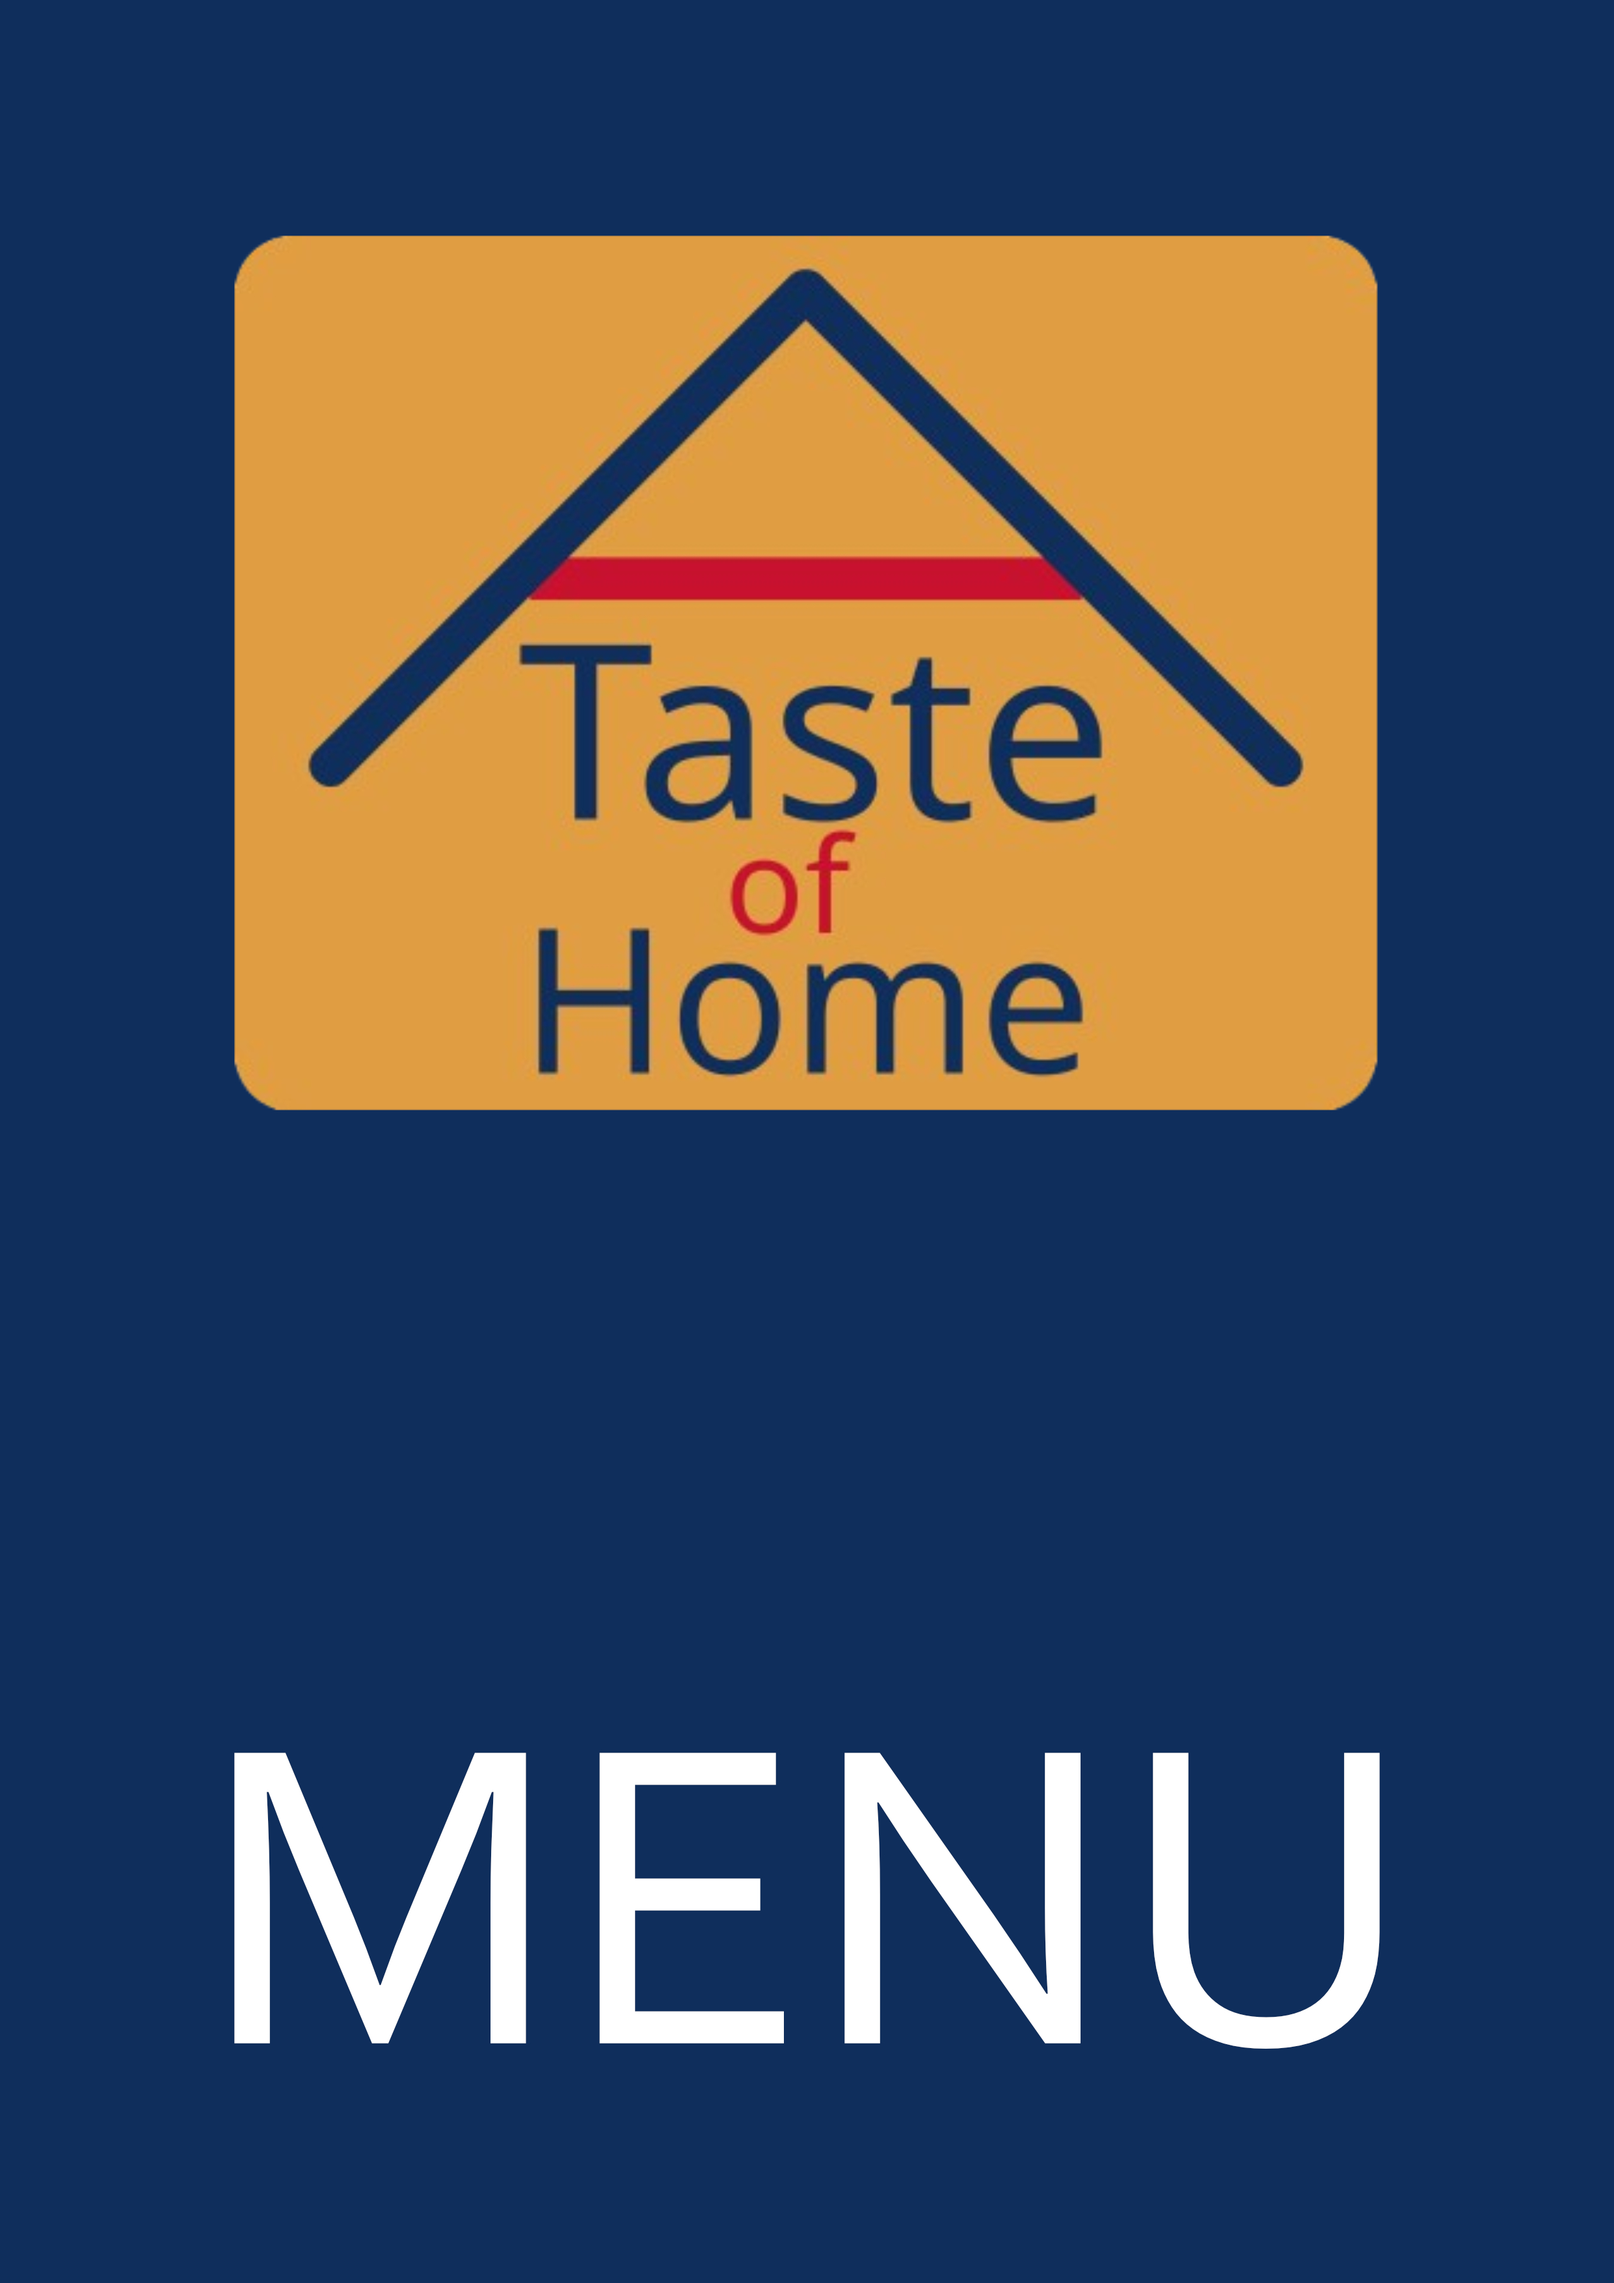
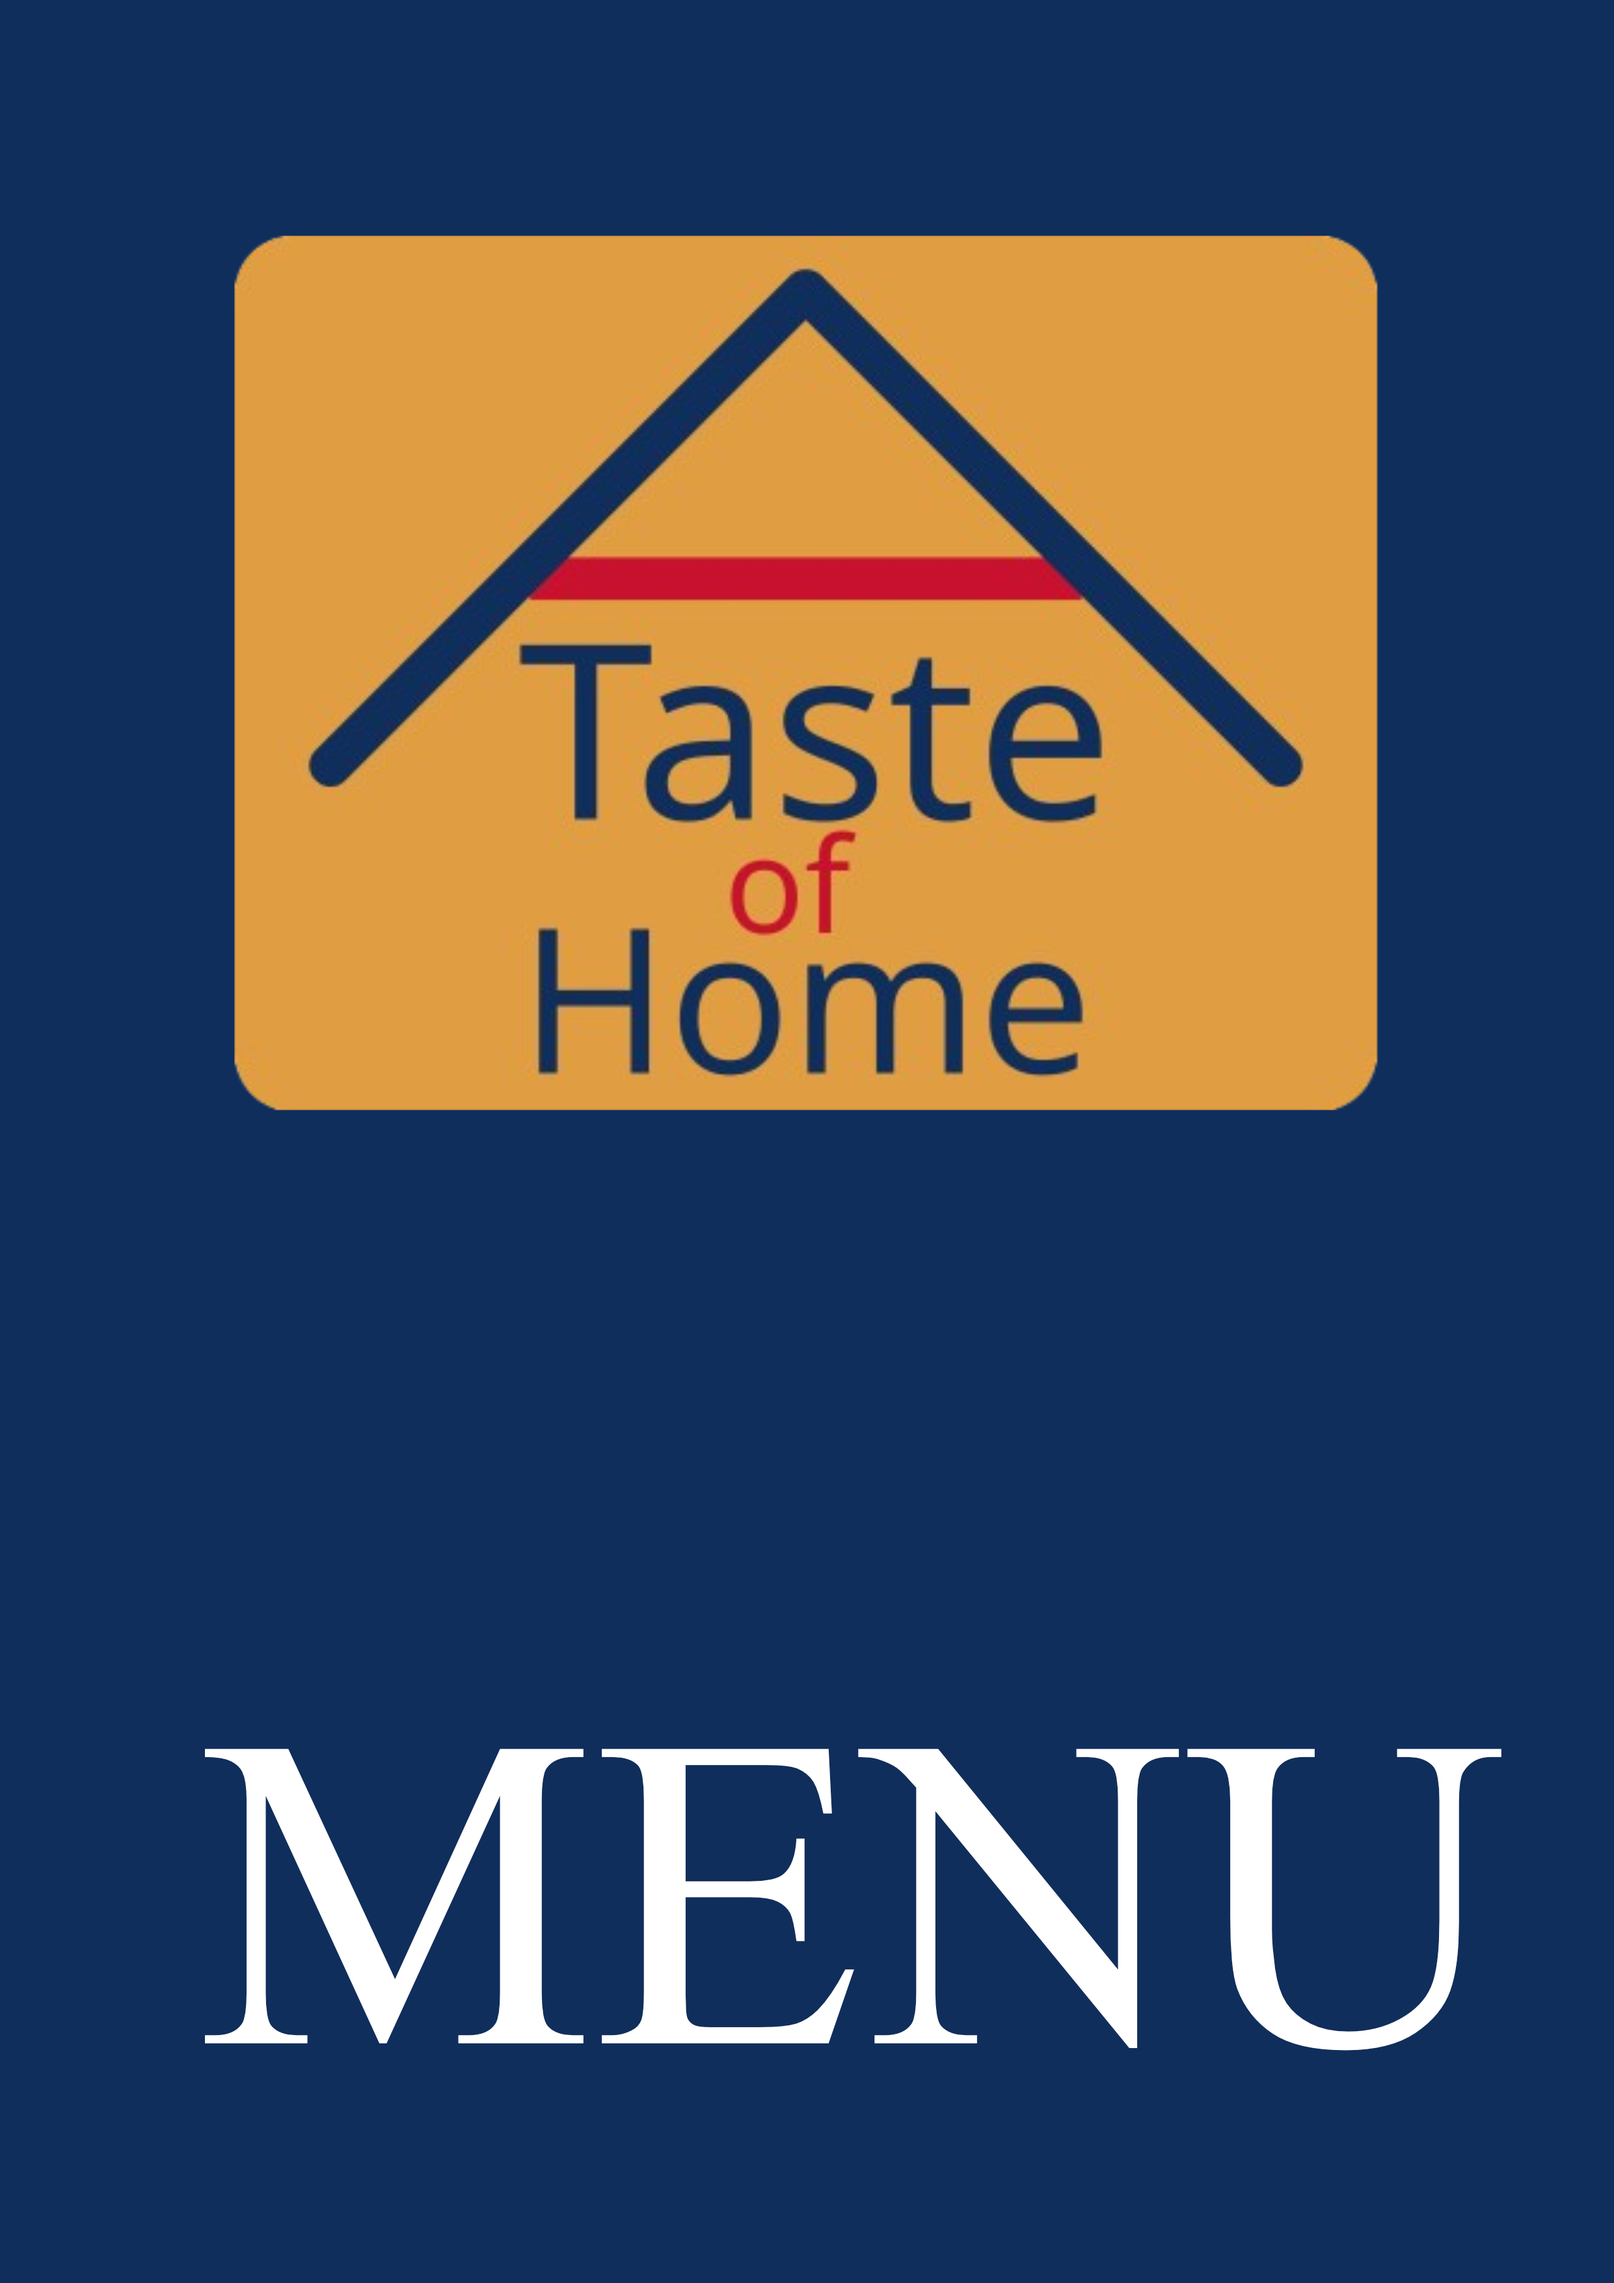
færdig

Changed region(s): [[0.2173, 0.7457, 0.9311, 0.9011], [0.1241, 0.7457, 0.1862, 0.9011], [0.1862, 0.7768, 0.2173, 0.8389]]

diff --git a/a-taste-of-home/a-taste-of-home.html b/a-taste-of-home/a-taste-of-home.html
@@ -7,7 +7,8 @@
     <link rel="stylesheet" type="text/css" href="mystylesheet.css">
 </head>
 
-<body style="background:url('picture-of-pub-with-food.png') no-repeat center center fixed;background-size:cover; background-size: cover;">
+<body
+    style="background:url('picture-of-pub-with-food.png') no-repeat center center fixed;background-size:cover; background-size: cover;">
     <header>
         <nav>
             <ul class="nav">
@@ -24,34 +25,53 @@
 
     <main>
         <div style="color: white; text-align: center; margin-top: 120px;">
-            <h1>A taste of home</h1>
-            <h3>Your home away</h3>
+            <h1>Velkommen til "A Taste of Home"</h1>
+            <h3>Your home away - Åbent tirsdag - søndag fra 08:00 - 22:00</h3>
         </div>
-        </main>
+    </main>
+    <main>
+        <div
+            style="color: white; text-align: center; margin-top: 50px; margin-bottom:50px; margin-left: 20%; margin-right: 20%; background-color: #0f2e5c; border-radius: 8px; padding: 2%;">
+            <p>Hos "A Taste of Home" er vi dedikerede til at skabe en varm og indbydende atmosfære, hvor du kan nyde
+                lækker mad inspireret af amerikanske, britiske og canadiske retter. Vores passion for mad og fællesskab
+                driver os til at levere en oplevelse, der føles som hjemme, uanset hvor du kommer fra.
+            </p>
+            <p style="margin-top: 40px;">
+                <a class="btn-cta" href="kontakt.html">Book bord</a>
+                <a class="btn-cta" href="menu.html">Se menukortet</a>
+            </p>
+        </div>
+    </main>
+    <main>
+        <div style="color: white; text-align: center; margin-bottom: 50px;">
+            <h1>Vi ses snart</h1>
+            <h3>A Taste of Home - Your home away</h3>
+        </div>
+    </main>
 
-        <footer>
-            <div class="footer-content">
-                <div style="text-align: center;" class="footer-col">
-                    <h4>Åbningstider</h4>
-                    <p>Mandag: Lukket</p>
-                    <p>Tirsdag - Søndag: 08:00 - 22:00</p>
-                </div>
-                <div class="footer-col">
-                    <h4>Links</h4>
-                    <p><a href="menu.html">Menu</a></p>
-                    <p><a href="om-os.html">Om os</a></p>
-                    <p><a href="kontakt.html">Kontakt</a></p>
-                </div>
-                <div style="text-align: center;" class="footer-col">
-                    <h4>Kontakt</h4>
-                    <p>Email: info@atasteofhome.com</p>
-                    <p>Telefon: 12 34 56 78</p>
-                </div>
-                <div class="footer-bottom">
-                    <p class="copyright">© 2025 A Taste of Home - All rights not reserved</p>
-                </div>
+    <footer>
+        <div class="footer-content">
+            <div style="text-align: center;" class="footer-col">
+                <h4>Åbningstider</h4>
+                <p>Mandag: Lukket</p>
+                <p>Tirsdag - Søndag: 08:00 - 22:00</p>
             </div>
-        </footer>
+            <div class="footer-col">
+                <h4>Links</h4>
+                <p><a href="menu.html">Menu</a></p>
+                <p><a href="om-os.html">Om os</a></p>
+                <p><a href="kontakt.html">Kontakt</a></p>
+            </div>
+            <div style="text-align: center;" class="footer-col">
+                <h4>Kontakt</h4>
+                <p>Email: info@atasteofhome.com</p>
+                <p>Telefon: 12 34 56 78</p>
+            </div>
+            <div class="footer-bottom">
+                <p class="copyright">© 2025 A Taste of Home - All rights not reserved</p>
+            </div>
+        </div>
+    </footer>
 
 </body>
 

diff --git a/a-taste-of-home/om-os.html b/a-taste-of-home/om-os.html
@@ -7,7 +7,8 @@
     <link rel="stylesheet" type="text/css" href="mystylesheet.css">
 </head>
 
-<body style="background-color:rgb(220, 220, 220);">
+<body
+    style="background:url('picture-of-pub-with-food.png') no-repeat center center fixed;background-size:cover; background-size: cover; color: white;">
     <header>
         <nav>
             <ul class="nav">
@@ -23,20 +24,21 @@
     </header>
 
     <main>
-        <div style="color: black; text-align: center; margin-top: 50px;">
-            <p>Historien bag (Storytelling): Fortæl hvorfor restauranten eksisterer, jeres passion for mad, og hvem der
-                står bag.
+        <div
+            style="color: white; text-align: center; margin-top: 50px; margin-bottom:50px; margin-left: 20%; margin-right: 20%; background-color: #0f2e5c; border-radius: 8px; padding: 2%;">
+            <p>Vi er tre drenge med en fælles passion for mad og et stærkt fokus på fællesskab. Derfor besluttede vi os
+                for at starte vores egen restaurant og hangout, *A Taste of Home*. Stedet er indrettet i en stil
+                inspireret af amerikansk, britisk og canadisk kultur, hvor vi har kombineret maden og stemningen for at
+                skabe et hyggeligt samlingspunkt, hvor alle har lyst til at hænge ud.
+                <br> <br>
+                Vi bruger så vidt muligt lokale råvarer, da klimaet betyder meget for os. Nogle ingredienser kan dog
+                ikke skaffes i Danmark, fordi vores menu blander retter fra forskellige kulturer – men alt, hvad vi kan
+                få lokalt, køber vi lokalt.
             </p>
-            <p>Mission & Vision: Hvad er jeres mål, og hvilken oplevelse vil I give gæsterne?.</p>
-            <p>Autenticitet & Ærlighed: Vær ærlig omkring, hvad I er, og hvorfor I gør tingene, som I gør - undgå
-                floskler.</p>
-            <p>Visuel Appel: Brug billeder af mad, interiør, køkken og personale for at skabe stemning og appetit
-                (sensorisk indhold).</p>
-            <p>Nøgletal & Troværdighed: Inkluder eventuelle awards, godkendelser, eller kundeanmeldelser, der
-                underbygger jeres påstande.</p>
-            <p>Konceptet: Beskriv kort, hvad der gør jer specielle (f.eks. lokale råvarer, speciel cuisine, hyggelig
-                atmosfære).</p>
-            <p>Call-to-Action (CTA): En klar opfordring til handling, f.eks. "Book bord" eller "Se menukortet". </p>
+            <p style="margin-top: 20px;">
+                <a class="btn-cta" href="kontakt.html">Book bord</a>
+                <a class="btn-cta" href="menu.html">Se menukortet</a>
+            </p>
         </div>
     </main>
 

diff --git a/a-taste-of-home/kontakt.html b/a-taste-of-home/kontakt.html
@@ -7,7 +7,7 @@
     <link rel="stylesheet" type="text/css" href="mystylesheet.css">
 </head>
 
-<body style="background-color: rgb(220, 220, 220);">
+<body style="background:url('picture-of-pub-with-food.png') no-repeat center center fixed;background-size:cover; background-size: cover; color: white;">
     <header>
         <nav>
             <ul class="nav">
@@ -25,7 +25,7 @@
     <main>
         <section class="contact-section">
             <div class="contact-grid">
-                <div class="contact-col contact-us">
+                <div style="background-color: #0f2e5c; padding: 10px; border-radius: 8px; padding: 2%;" class="contact-col contact-us">
                     <h1>Kontakt os</h1>
                     <p><strong>Email:</strong> <a href="mailto:info@atasteofhome.com">info@atasteofhome.com</a></p>
                     <p><strong>Telefon:</strong> 12 34 56 78</p>
@@ -38,7 +38,7 @@
                     
                 </div>
 
-                <div class="contact-col find-us">
+                <div style="background-color: #0f2e5c; padding: 10px; border-radius: 8px; padding: 2%;" class="contact-col find-us">
                     <h2>Find os</h2>
                     <p><strong>Adresse:</strong> Nørregade 23, 6100 Haderslev, Danmark</p>
                     <p><strong>Åbningstider:</strong> Mandag: Lukket · Tirsdag - Søndag: 08:00 - 22:00</p>

diff --git a/a-taste-of-home/mystylesheet.css b/a-taste-of-home/mystylesheet.css
@@ -3,7 +3,7 @@ html, body {
   margin: 0;
   padding: 0;
   height: 100%;
-  font-family: "Gill Sans", sans-serif;
+  font-family: "Times New Roman", Times, serif;
   scroll-behavior: smooth;
 }
 
@@ -238,4 +238,23 @@ main {
   border: 0;
 }
 .contact-col { padding: 12px; }
+
+/* ---------- CTA BUTTONS ---------- */
+.btn-cta {
+  display: inline-block;
+  padding: 12px 24px;
+  margin: 8px;
+  background-color: #e19d41;
+  color: #0f2e5c;
+  text-decoration: none;
+  border-radius: 6px;
+  font-weight: 700;
+  transition: 0.3s;
+  border: 2px solid #e19d41;
+}
+.btn-cta:hover {
+  background-color: #0f2e5c;
+  color: #e19d41;
+  border-color: #e19d41;
+}
 

diff --git a/a-taste-of-home/menu.html b/a-taste-of-home/menu.html
@@ -7,7 +7,7 @@
     <link rel="stylesheet" type="text/css" href="mystylesheet.css">
 </head>
 
-<body style="background-color: rgb(250, 250, 250);">
+<body style="background:url('picture-of-pub-with-food.png') no-repeat center center fixed;background-size:cover; background-size: cover;">
     <header>
         <nav>
             <ul class="nav">
